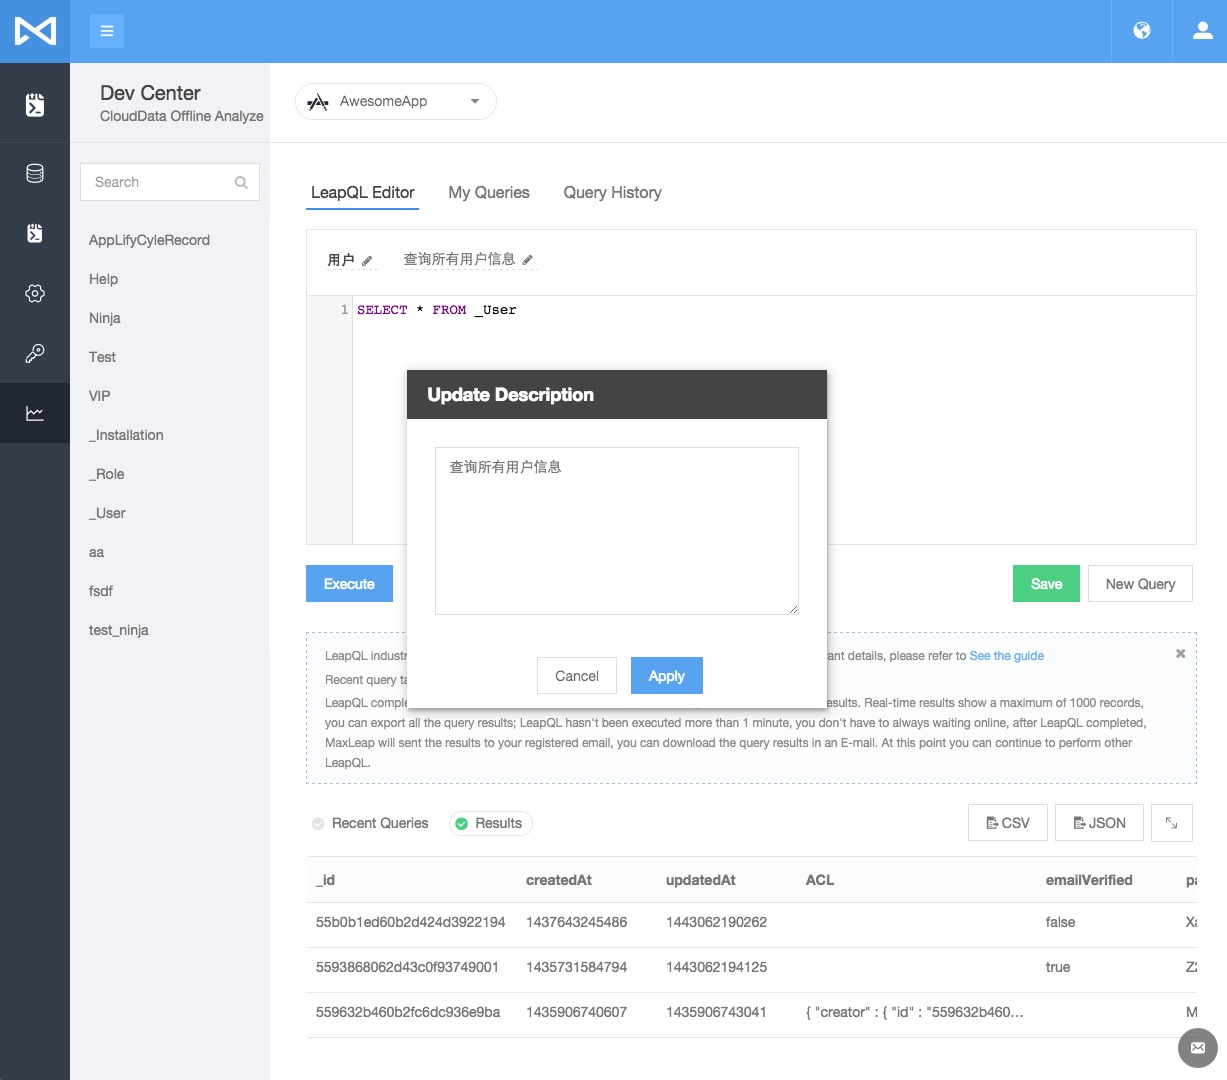
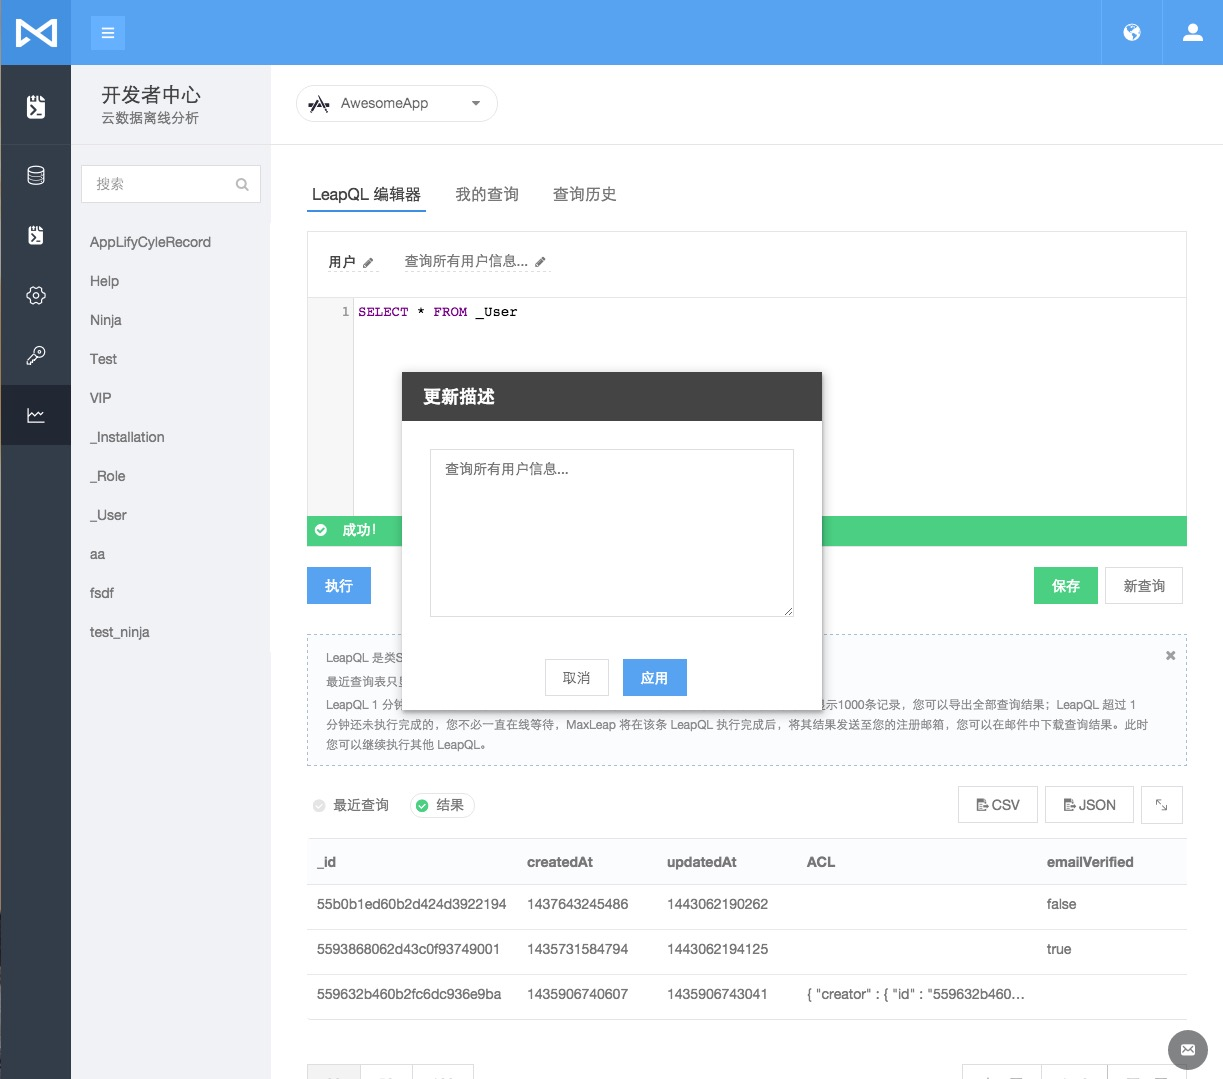
update offline analysis replace english picture

diff --git a/zh/UserManual/Guide/CloudDataOfflineAnalyze.md b/zh/UserManual/Guide/CloudDataOfflineAnalyze.md
@@ -1,6 +1,5 @@
 ## 云数据离线分析
-##### _Author: Jeff Tsai
-##### _Github: https://github.com/jjeffcaii
+##### _Authors: <a href="https://github.com/jjeffcaii">Jeff Tsai</a> , <a href="https://github.com/wbye">wbye</a>
 ### 简介
 MaxLeap 云数据离线分析旨在为用户提供一种处理自有应用数据的方式，用户可以使用类SQL的查询语句对自己的数据进行高效的查询和导出。该功能的数据源为截止今日凌晨的历史数据。
 ### 背景及目标
@@ -33,7 +32,7 @@ MaxLeap 云数据离线分析旨在为用户提供一种处理自有应用数据
 
 - 在右侧的编辑器中撰写您的LeapQL语句，点击执行，等待片刻后，页面将会返回执行结果。
 
-![Offline Arch](../../../images/imgOfflineStep3.jpg "Offline Arch")
+![Offline Arch](../../../images/imgOfflineStep3. "Offline Arch")
 
 
 ### 使用我的查询
